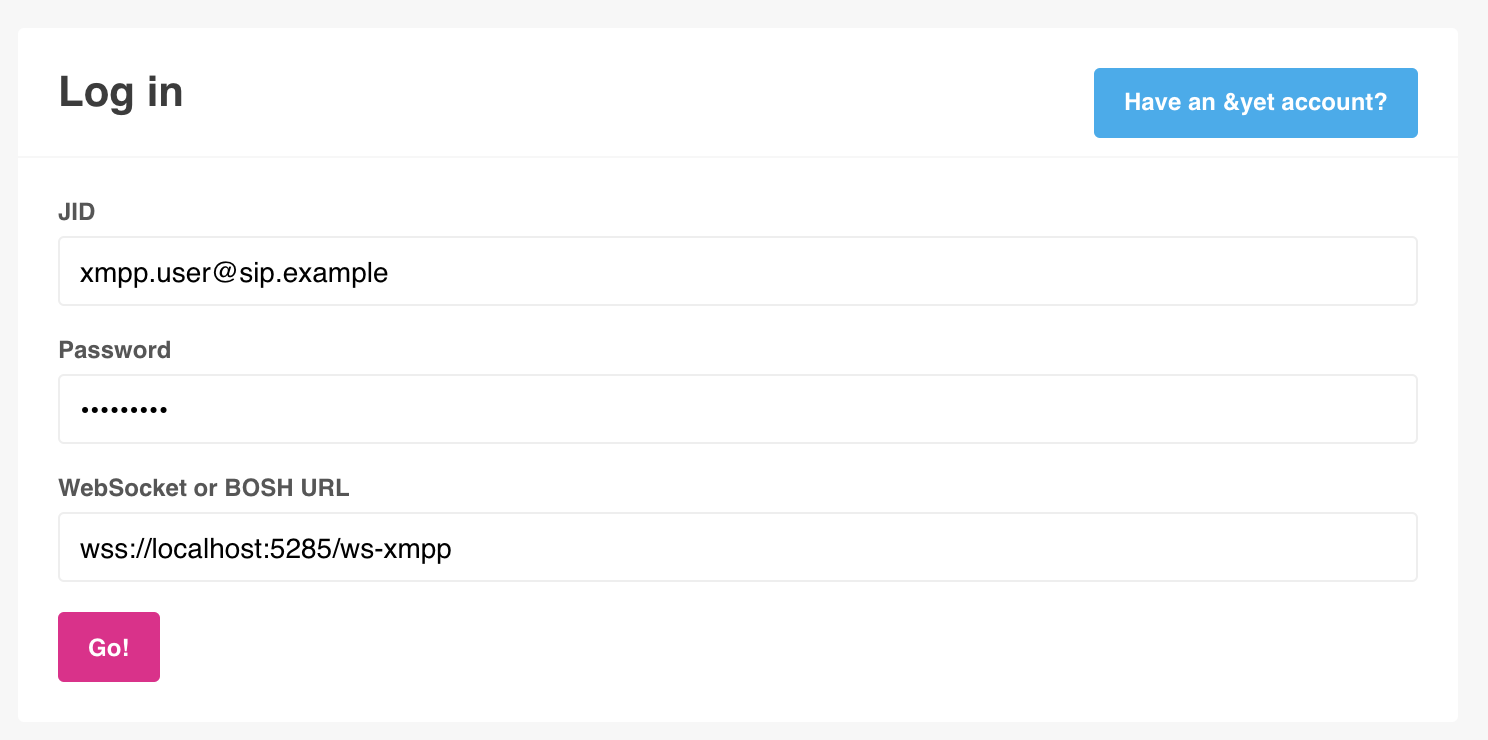
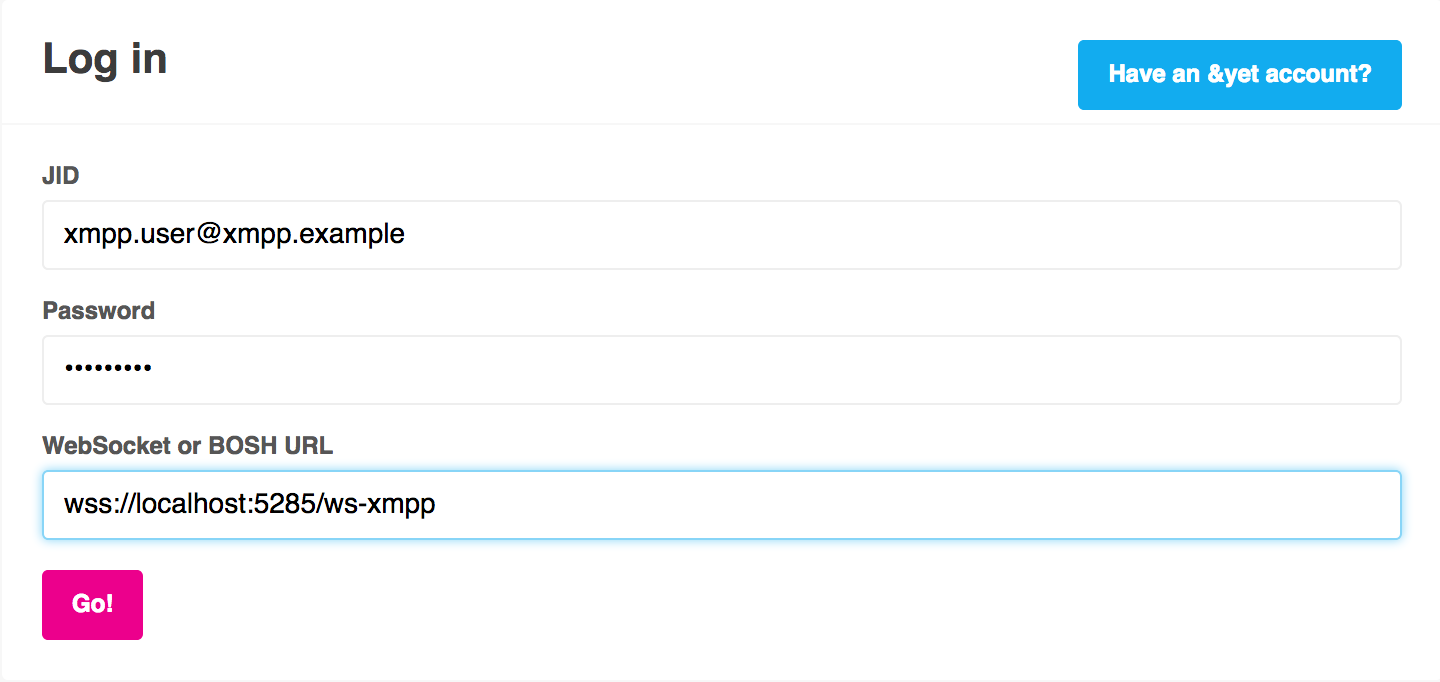
[skip ci] improve tutorial text based on technical review

diff --git a/doc/user-guide/Jingle-SIP-setup.md b/doc/user-guide/Jingle-SIP-setup.md
@@ -66,6 +66,18 @@ If all goes well we'll see the following output:
 
 It is important to remember the IP address as it'll be used in next point.
 
+#### A side not
+
+In Routr's logs you may see messages like
+
+    [WARN ] Unable to register with Gateway -> sip.provider.net. (Verify your network status)
+
+or
+
+    [ERROR] java.lang.RuntimeException: javax.sip.header.TooManyHopsException: has already reached 0!
+
+They can be ignored for the purpose of the tutorial.
+
 ### Configuring /etc/hosts
 
 In my case the IP reported by Routr was `10.152.1.27`.
@@ -77,21 +89,26 @@ Now we need to use this to update `/etc/hosts` file like below:
 
 At this point I assume that MongooseIM was built with `make rel`, that it is running and the CWD is `_build/prod/rel/mongooseim`.
 Similar to Routr, MongooseIM also needs to know which hosts to server.
-Please replace the default host defined in line
+Please replace the default host defined in file `etc/ejabberd.cfg` in line
 
 ```erlang
 {hosts, ["localhost"] }.
 ```
 
+to:
+
 ```erlang
 {hosts, ["xmpp.example", "sip.example"] }.
 ```
 
-Now we need to enable `mod_jingle_sip`, please add the following line in modules list (somewhere around line 740)
+Now we need to enable `mod_jingle_sip`, please add the following line in modules list (somewhere around line 740 in the same file)
 
 ```erlang
 {mod_jingle_sip, [{proxy_host, "sip.example"}]},
 ```
+
+More details on MongooseIM configuration you can find in [Basic Configuration](../Basic-configuration.md)
+and in [Modules configuration](../advanced-configuration/Modules.md)
 
 Now we are registering both users in MongooseIM by calling the following commands:
 
@@ -126,7 +143,8 @@ Here we need to unselect the `Configure proxy automatically` and put the IP of o
 #### Adding an XMPP user
 
 Now we have to add `sip.user@sip.example` to Jitsi's XMPP network in order to connect this user to MongooseIM over XMPP.
-It's very similar to adding a user to Jitsi's SIP network.
+It's very similar to adding a user to Jitsi's SIP network, the only difference is the password,
+for the XMPP conection it's `test_pass` as set when registering the user in MongooseIM.
 Here we also need to go to the `Advanced` window and the `Connection` tab in order to put the IP addres (the same as before) in the `Connect Server` field.
 Remember to check the `Override server default options` box.
 
@@ -137,7 +155,7 @@ We can click `Continue anyway` button in order to proceed.
 
 ### Adding user to Otalk
 
-Please follow the instructiond on https://github.com/otalk/otalk-im-client#installing in order to compile and run the app.
+Please follow the instructiond on [https://github.com/otalk/otalk-im-client#installing](https://github.com/otalk/otalk-im-client#installing) in order to compile and run the app.
 If all goes well, you should see the following message printed in the console:
 
     demo.stanza.io running at: http://localhost:8000
@@ -150,10 +168,12 @@ This means that the app is hosted on `http://localhost:8000`.
 > We need to add an exception for this certificate in order to successfully connect from Otalk.
 
 Now let's open [http://localhost:8000](http://localhost:8000) where the Otalk app is hosted.
-In the `Log in` section put `xmpp.user@xmpp.example.com` in the `JID` field and `test_pass` in the `Password` filed.
+In the `Log in` section put `xmpp.user@xmpp.example` in the `JID` field and `test_pass` in the `Password` filed.
 The default WebSocket endpoint in the `WebSocket or BOSH URL` field needs to be changed to:
 
     wss://localhost:5285/ws-xmpp
+
+Mind the `wss` protocol, Otalk will not connect the user over WebSockets if for example `https` is put in the field.
 
 ![Otalk login page](jingle-sip/otalk-log-in.png)
 
